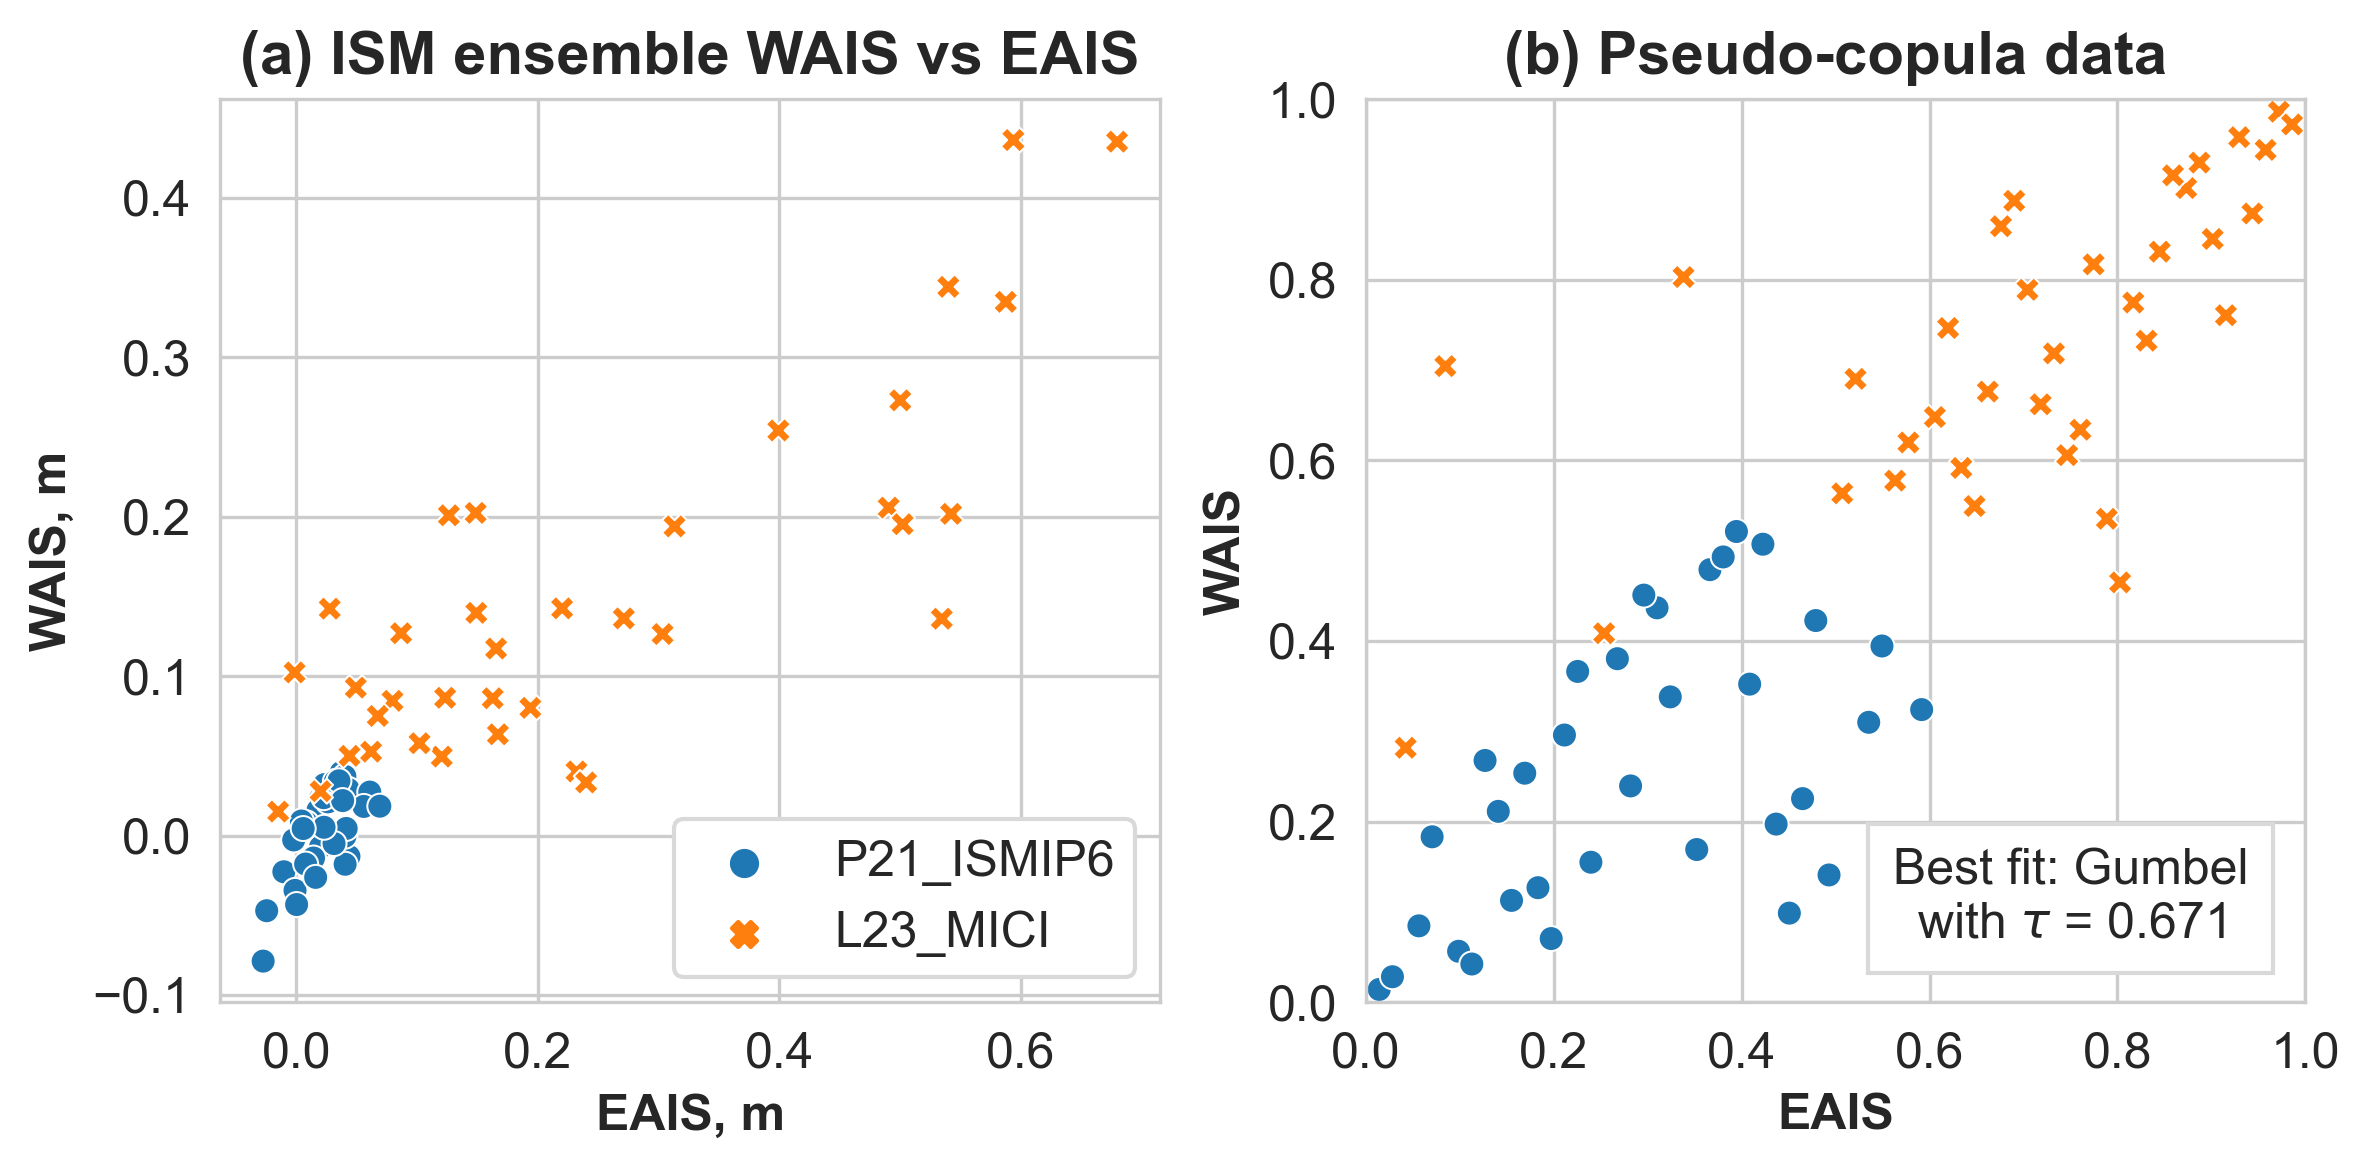
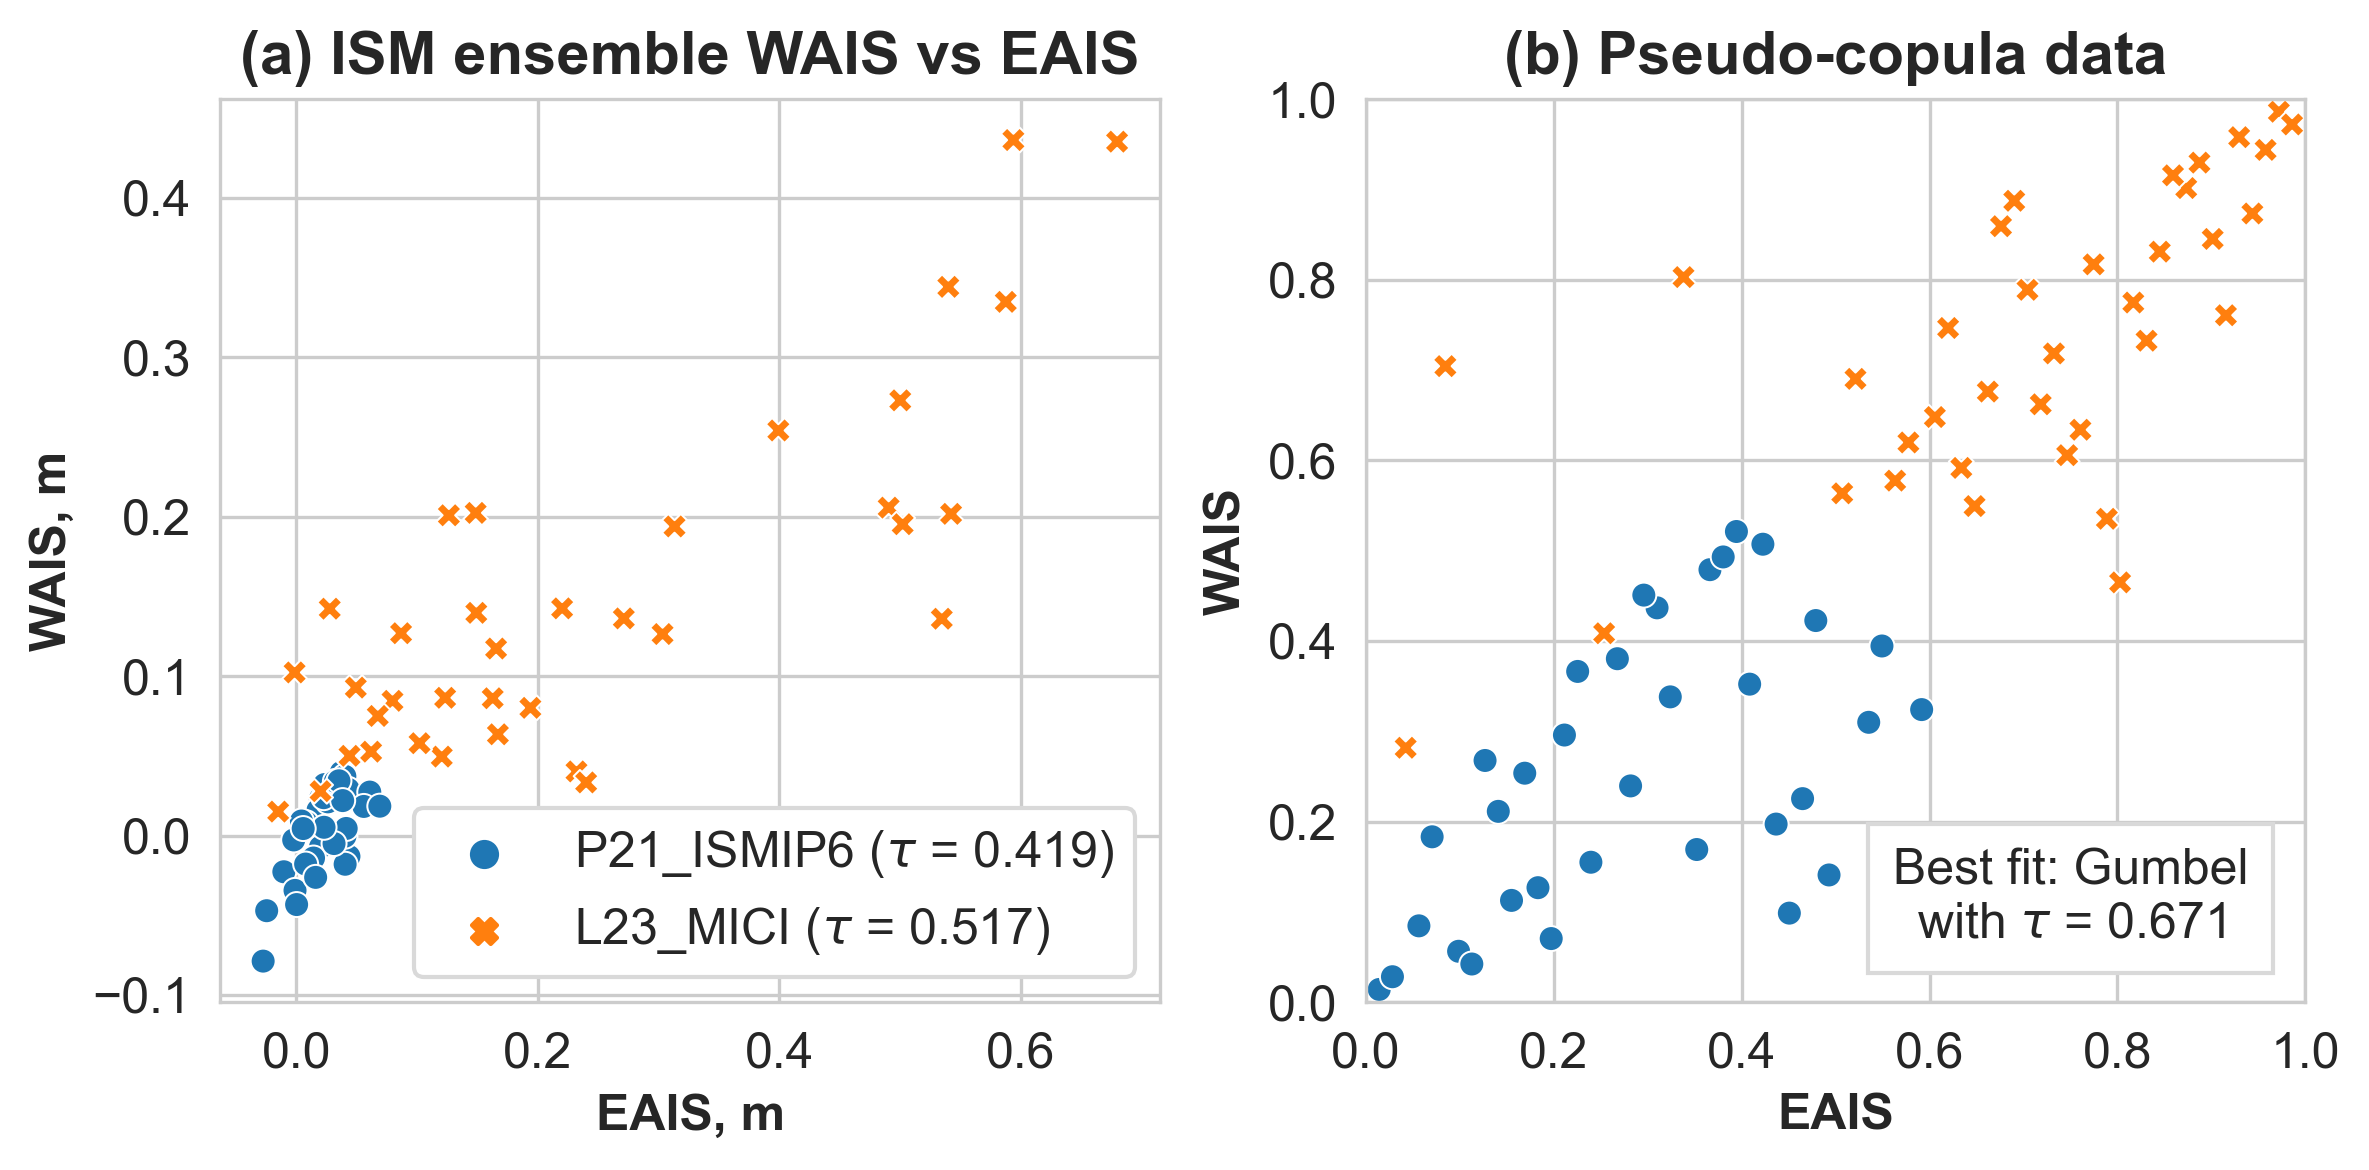
d23b fig_p21_l23_ism_data(): include tau of each ensemble within group label.

Changed region(s): [[0.1874, 0.6769, 0.4686, 0.8615]]

diff --git a/d23b.py b/d23b.py
@@ -153,7 +153,12 @@ def fig_p21_l23_ism_data(ref_year=2015, target_year=2100):
     axs : array of Axes
     """
     # Read combined Antarctic ISM ensemble data from Payne et al. (2021) and Li et al. (2023)
-    p21_l23_df = read_p21_l23_ism_data(ref_year=ref_year, target_year=target_year)
+    p21_l23_df = read_p21_l23_ism_data(ref_year=ref_year, target_year=target_year).copy()
+    # Include tau of each ensemble within Group label
+    for group in p21_l23_df['Group'].unique():
+        group_df = p21_l23_df.loc[p21_l23_df['Group'] == group]
+        tau = stats.kendalltau(group_df['EAIS'], group_df['WAIS'])[0]
+        p21_l23_df = p21_l23_df.replace(group, f'{group} ($\\tau$ = {tau:.3f})')
     # Create Figure and Axes
     fig, axs = plt.subplots(1, 2, figsize=(8, 4), tight_layout=True)
     # (a) WAIS vs EAIS on GMSLR scale (ie sea-level equivalent)
